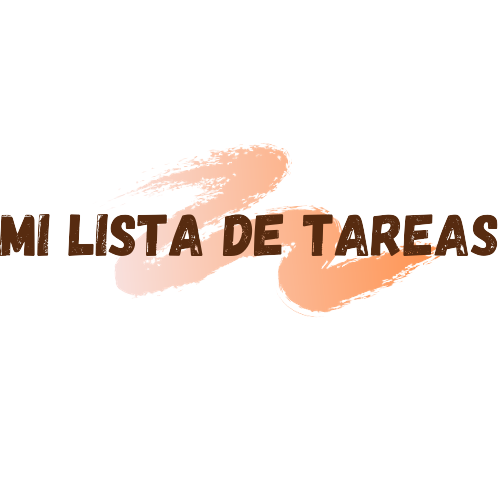
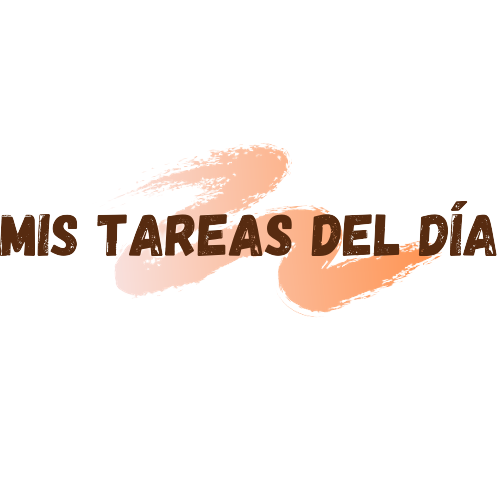
Se actualizo el nombre y el pie de pagina

Changed region(s): [[0.0, 0.39, 1.0, 0.51]]

diff --git a/src/App.jsx b/src/App.jsx
@@ -46,8 +46,12 @@ function App() {
             <Text 
             
             fontFamily="Comic Sans MS" fontSize="sm" textAlign="center"> 
-© 2023 Mi Lista de Tareas. Todos los derechos reservados. ¡Gracias por visitarnos!
+© 2023 Mis Tareas del dia. Desarrollado por Eldy Vasquez. Todos los derechos reservados.  
+
             </Text>
+            <Text 
+            
+            fontFamily="Comic Sans MS" fontSize="sm" textAlign="center"> ¡Gracias por visitarnos!</Text>
           </Box>
         </GridItem>
       </Grid>
